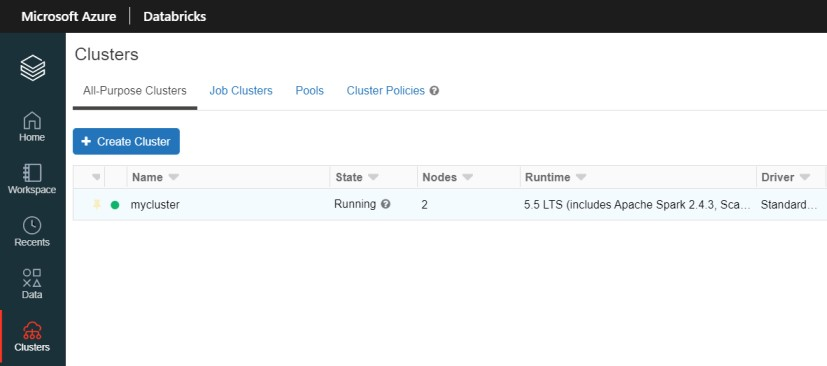
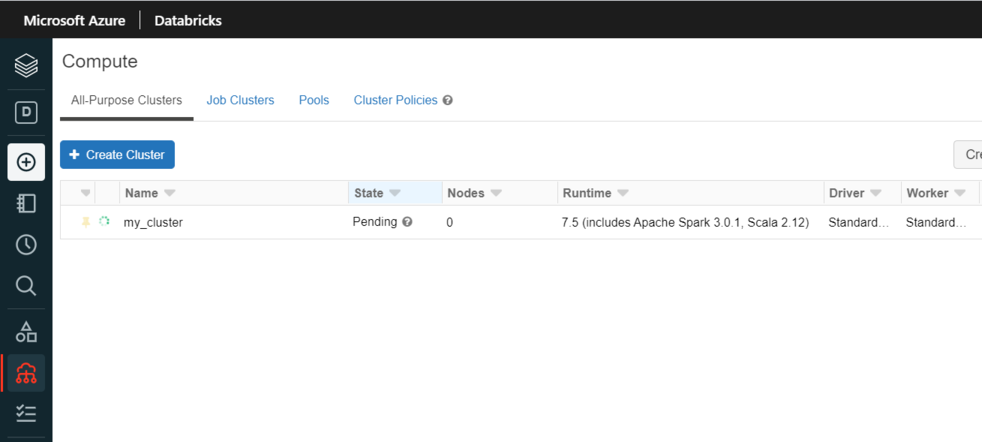
update databricks guide (#4120)
* update

* resize image

* update

diff --git a/docs/readthedocs/source/doc/UserGuide/databricks.md b/docs/readthedocs/source/doc/UserGuide/databricks.md
@@ -3,11 +3,10 @@
 ---
 
 You can run Analytics Zoo program on the [Databricks](https://databricks.com/) cluster as follows.
-
 ### **1. Create a Databricks Cluster**
 
 - Create either [AWS Databricks](https://docs.databricks.com/getting-started/try-databricks.html) workspace or [Azure Databricks](https://docs.microsoft.com/en-us/azure/azure-databricks/) workspace. 
-- Create a Databricks [clusters](https://docs.databricks.com/clusters/create.html) using the UI. Choose Databricks runtime version. This guide is tested on Runtime 5.5 LTS (includes Apache Spark 2.4.3, Scala 2.11).
+- Create a Databricks [clusters](https://docs.databricks.com/clusters/create.html) using the UI. Choose Databricks runtime version. This guide is tested on Runtime 7.5 (includes Apache Spark 3.0.1, Scala 2.12).
 
 ### **2. Installing Analytics Zoo libraries**
 
@@ -15,15 +14,15 @@ In the left pane, click **Clusters** and select your cluster.
 
 ![](images/Databricks1.PNG)
 
-Install Analytics Zoo python environment using PyPI. Click **Libraries > Install New > PyPI**. Install official released version by texting "analytics-zoo" library. Or install latest [nightly build](https://pypi.org/project/analytics-zoo/#history) of Analytics Zoo with the specified version.
+Install Analytics Zoo python environment using prebuilt release Wheel package. Click **Libraries > Install New > Upload > Python Whl**. Download Analytics Zoo prebuilt Wheel [here](https://sourceforge.net/projects/analytics-zoo/files/zoo-py). Choose a wheel with timestamp for the same Spark version and platform as Databricks runtime. Download and drop it on Databricks.
 
 ![](images/Databricks2.PNG)
 
-Install Analytics Zoo prebuilt jar package. Click **Libraries > Install New > Upload > Jar**. Download Analytics Zoo prebuilt package from [Release Page](../release.md). Please note that you should choose the same spark version of package as your Databricks runtime version. Unzip it. Find jar named "analytics-zoo-bigdl_*-spark_*-jar-with-dependencies.jar" in the lib directory. Drop the jar on Databricks.
+Install Analytics Zoo prebuilt jar package. Click **Libraries > Install New > Upload > Jar**. Download Analytics Zoo prebuilt package from [Release Page](../release.md). Please note that you should choose the same spark version of package as your Databricks runtime version. Find jar named "analytics-zoo-bigdl_*-spark_*-jar-with-dependencies.jar" in the lib directory. Drop the jar on Databricks.
 
 ![](images/Databricks3.PNG)
 
-Make sure the jar file and analytics-zoo (with PyPI) are installed on all clusters. In **Libraries** tab of your cluster, check installed libraries and click “Install automatically on all clusters” option in **Admin Settings**.
+Make sure the jar file and analytics-zoo (whl) are installed on all clusters. In **Libraries** tab of your cluster, check installed libraries and click “Install automatically on all clusters” option in **Admin Settings**.
 
 ![](images/Databricks4.PNG)
 
@@ -33,14 +32,14 @@ On the cluster configuration page, click the **Advanced Options** toggle. Click 
 
 ![](images/Databricks5.PNG)
 
-See below for an example of Spark config setting needed by Analytics Zoo. Here it sets 1 core per executor. Note that "spark.cores.max" needs to be properly set below.
+See below for an example of Spark config setting needed by Analytics Zoo. Here it sets 2 core per executor. Note that "spark.cores.max" needs to be properly set below.
 
 ```
 spark.shuffle.reduceLocality.enabled false
 spark.serializer org.apache.spark.serializer.JavaSerializer
 spark.shuffle.blockTransferService nio
 spark.databricks.delta.preview.enabled true
-spark.executor.cores 1
+spark.executor.cores 2
 spark.speculation false
 spark.scheduler.minRegisteredResourcesRatio 1.0
 spark.cores.max 4
@@ -48,11 +47,11 @@ spark.cores.max 4
 
 ### **4. Running Analytics Zoo on Databricks**
 
-Open a new notebook, and call `init_orca_context` at the beginning of your code (with `cluster_mode` set to "standalone").
+Open a new notebook, and call `init_orca_context` at the beginning of your code (with `cluster_mode` set to "spark-submit").
 
 ```python
 from zoo.orca import init_orca_context, stop_orca_context
-init_orca_context(cluster_mode="standalone", num_executors=2)
+init_orca_context(cluster_mode="spark-submit")
 ```
 
 Output on Databricks:
